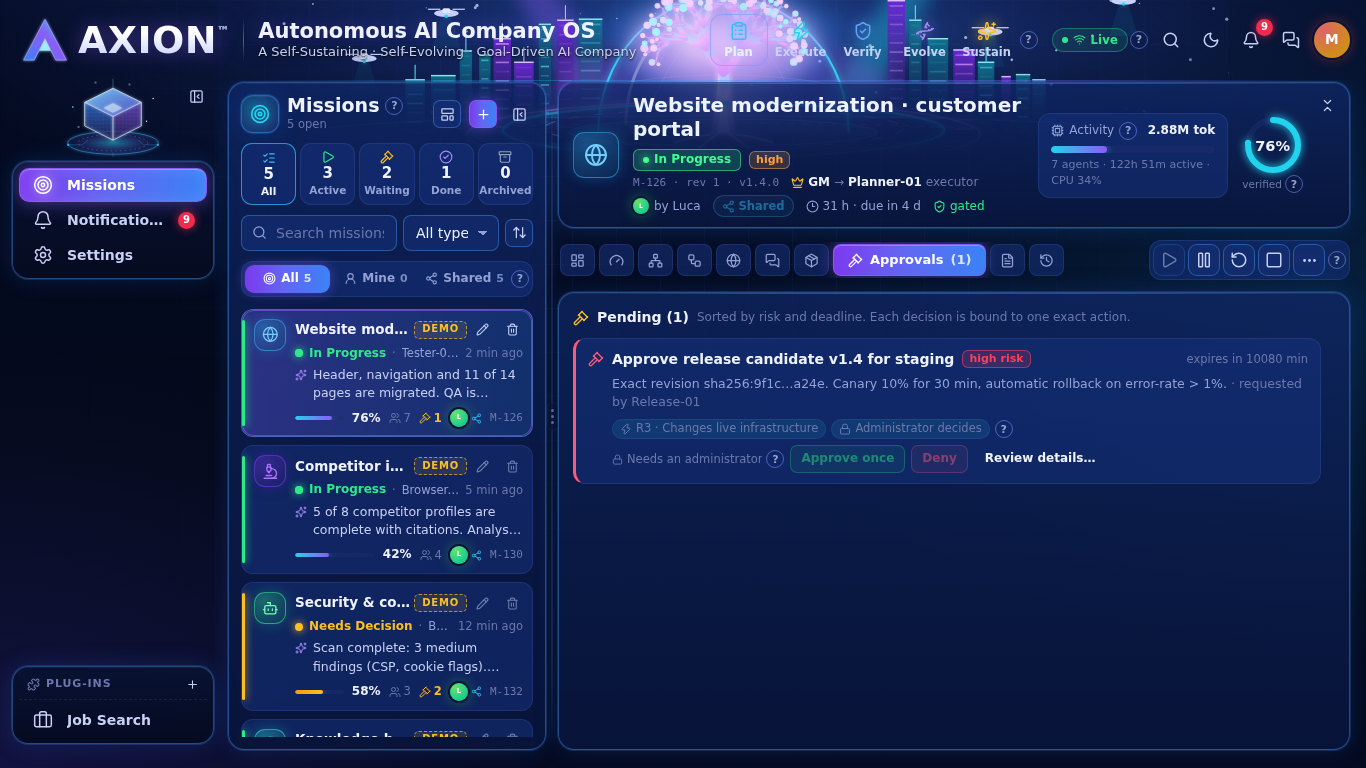
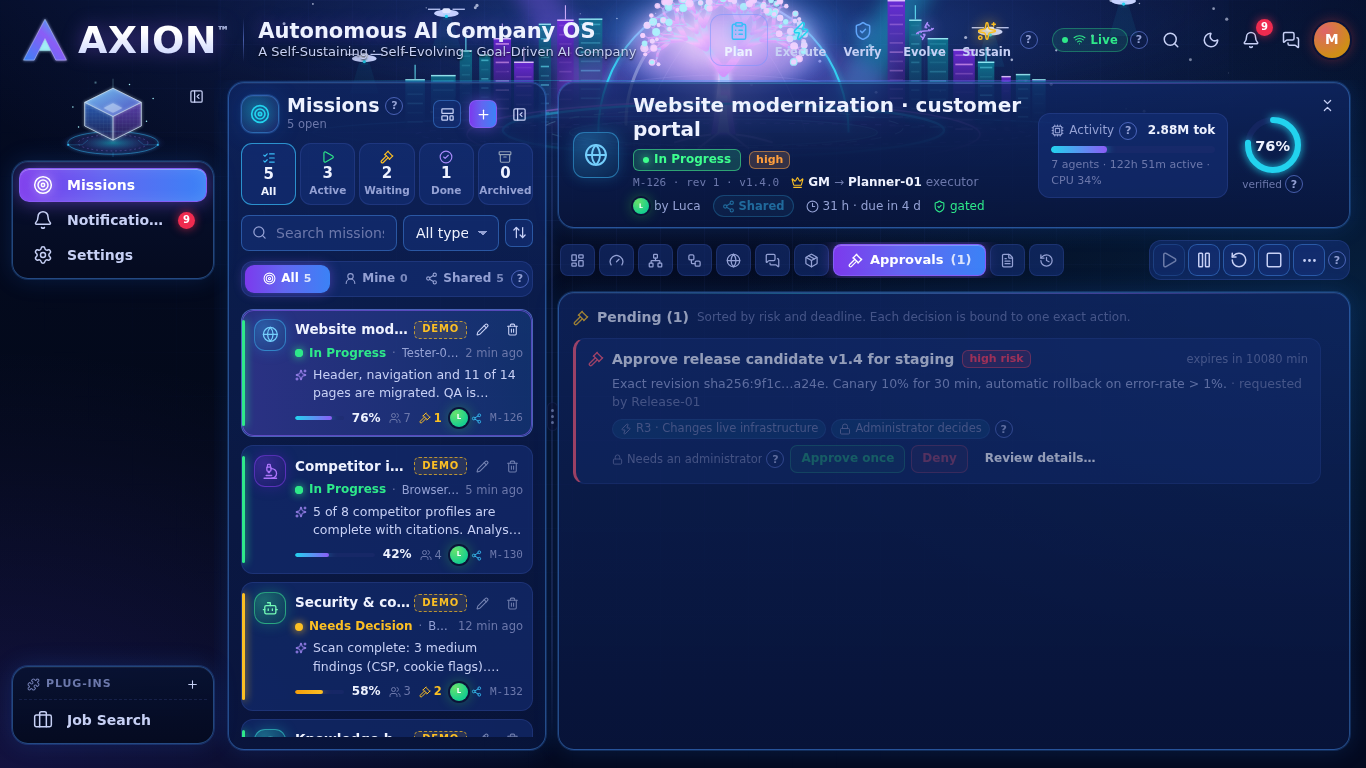
docs(c48): report with light and dark screenshots

diff --git a/web/docs/improve/cycles/c48-report.md b/web/docs/improve/cycles/c48-report.md
@@ -1,0 +1,45 @@
+# c48 report: approvals UI follows the policy tiers (lane w47, branch c48-approvals-ui, from 09dd6cb)
+
+## What was built
+- **Server (one policy path).** `decideRefusal(row, user, now)` in `server/src/approvals/service.ts` is the single function that says whether a user may decide a request, in the route's order: tier (R3/R4 need an administrator, `POLICY_DENIED` 403), self-approval (`SELF_APPROVAL` 403), already decided (409), expired (stale 409). The decision route now throws from it, and `approvalDto(row, now, viewer)` reports it as `canDecide` and `decideBlockedReason` (`tier_requires_admin | requester_cannot_decide | already_decided | expired | null`). Both the list and the decision response carry them. No client copy of any rule. No migration.
+- **Web.** `features/approvals/ApprovalBinding.tsx`: `useGate(a)` reads only the server flag. A blocked control uses `aria-disabled` (focusable, so keyboard and screen-reader users reach it) plus `aria-describedby` pointing at the visible reason; its click is swallowed. `GateNote` shows the reason and a `?` (`approval.gate`). `ApprovalFacts` gets a `?` (`approval.tiers`) explaining R0 to R4. `apiDecide` also sends nothing when the flag is false.
+- **Surfaces** (all follow the flag): Notifications Pending card, decision dialog, mission Approvals tab (`ApprovalMini`), and the Overview Approval Queue quick icons (these were ungated before this cycle: a member could click Approve on an R3 row and get a 403). The command palette, notification actions and top bar have no decision control (checked by grep for decide/approve).
+- **DEMO.** Fixture approvals carry `canDecide: true` (labelled in `data/missions.ts`): the demo account is an administrator and no fixture is its own request. The same gate code runs if a fixture ever sets false. No blocked demo fixture was added, to keep the demo counts stable.
+
+## RED / GREEN
+- RED: `server/test/c48-can-decide.test.ts` before the implementation: 26 failed (26).
+- GREEN: same file after: 26 passed (24 combinations of tier R2/R3/R4 x admin/member x requester agent/self x pending/decided, each posting the real decision and asserting `canDecide === (route did not refuse)` and the reason equals the refusal the route gave; plus the decision response, and an expired row).
+
+## Pass threshold
+| Item | Result | Evidence |
+|---|---|---|
+| Server test passes for all tier x role x requester combinations | PASS | 26/26 (above). Expired is tested on the DTO with an injected clock, because the list sweeps expired rows away |
+| `api-c48.mjs`: member sees disabled buttons with the reason on R3/R4 | PASS | card, dialog, mission tab, overview queue: `aria-disabled`, `aria-describedby` text "Needs an administrator" |
+| Clicking a disabled control does nothing and sends no request | PASS | 0 POST `/decision` requests recorded in the member browser on all four surfaces; dialog stays open |
+| The `?` opens | PASS | gate `?` explains why; tiers `?` lists R0 to R4 |
+| Admin can still decide | PASS | admin R3 approve decided on the server (3 -> 2 pending); admin sees no gate note |
+| Every decision surface covered | PASS | 4 surfaces (palette, TopBar, notification actions have none) |
+| 1366x768 fit | PASS | member card, mission tab, overview, light mode: scroll size <= viewport |
+| No 403 POLICY_DENIED in the member network log | PASS | 0 responses with status 403 during the member flow |
+| api-stage6, api-improve | PASS | 94/94; 107/107 |
+| api-c35 (older UI check, unchanged) | PASS | 16/16 (needed the gate help to keep the words "live / who can do what / hard-to-undo"; the test was not edited) |
+| verify-all 10/10 | PASS | ALL 10 STEPS PASSED |
+| a11y 0 violations | PASS | demo: 50 views, 58 dialogs, 0 violations |
+| tsc | PASS | server and web clean |
+| Full server vitest | PASS with a note | 1458 passed, 4 failed in 3 agent-version files (`agents`, `instances`, `version-proposals`), unrelated to approvals; they ran while verify-all and other lanes loaded the machine. Rerun alone: 52/52 passed |
+
+`api-c48.mjs`: 26 PASS, 0 FAIL. The one case it cannot create for real (`requester_cannot_decide`: no HTTP route makes a user-raised request yet) is checked by rewriting the `/approvals` response in the browser; the server side of that reason is in the unit matrix.
+
+## Screenshots
+`shots-c48/`: `member-card-dark.png`, `member-card-light.png`, `member-tiers-help-dark.png`, `member-tiers-help-light.png`, `member-dialog-dark.png`, `member-mission-dark.png`, `member-overview-dark.png`, `admin-dark.png`.
+
+## Files changed
+server: `src/approvals/service.ts`, `src/approvals/routes.ts`, `test/c48-can-decide.test.ts`.
+web: `src/features/approvals/ApprovalBinding.tsx`, `src/features/mission/Shared.tsx`, `src/dialogs/defs/users-governance.tsx`, `src/pages/Notifications.tsx`, `src/pages/Overview.tsx`, `src/store/data.ts`, `src/data/types.ts`, `src/data/missions.ts`, `src/help/pages/users-governance-notifications.ts`, `src/theme/pages/users-governance-notifications.css`, `scripts/api-c48.mjs`.
+
+## Concerns
+1. The Overview Approval Queue panel is tight at 1366 wide (title truncation and a clipped "Open" header existed already next to neighbouring panels); the reason there is screen-reader text plus a `?`, not visible text.
+2. Digest staleness (client saw an old digest) is not part of `canDecide`; it depends on the client and stays a 409 `APPROVAL_STALE`.
+3. `canDecide` is a snapshot: another user deciding first turns it into `already_decided` only after the next refresh (SSE refreshes approvals on `approval.*` events).
+4. DEMO has no blocked fixture (see above).
+5. `aria-disabled` replaced `disabled` on these controls on purpose; the old CSS rule for `:disabled` was extended to `.is-gated`.
